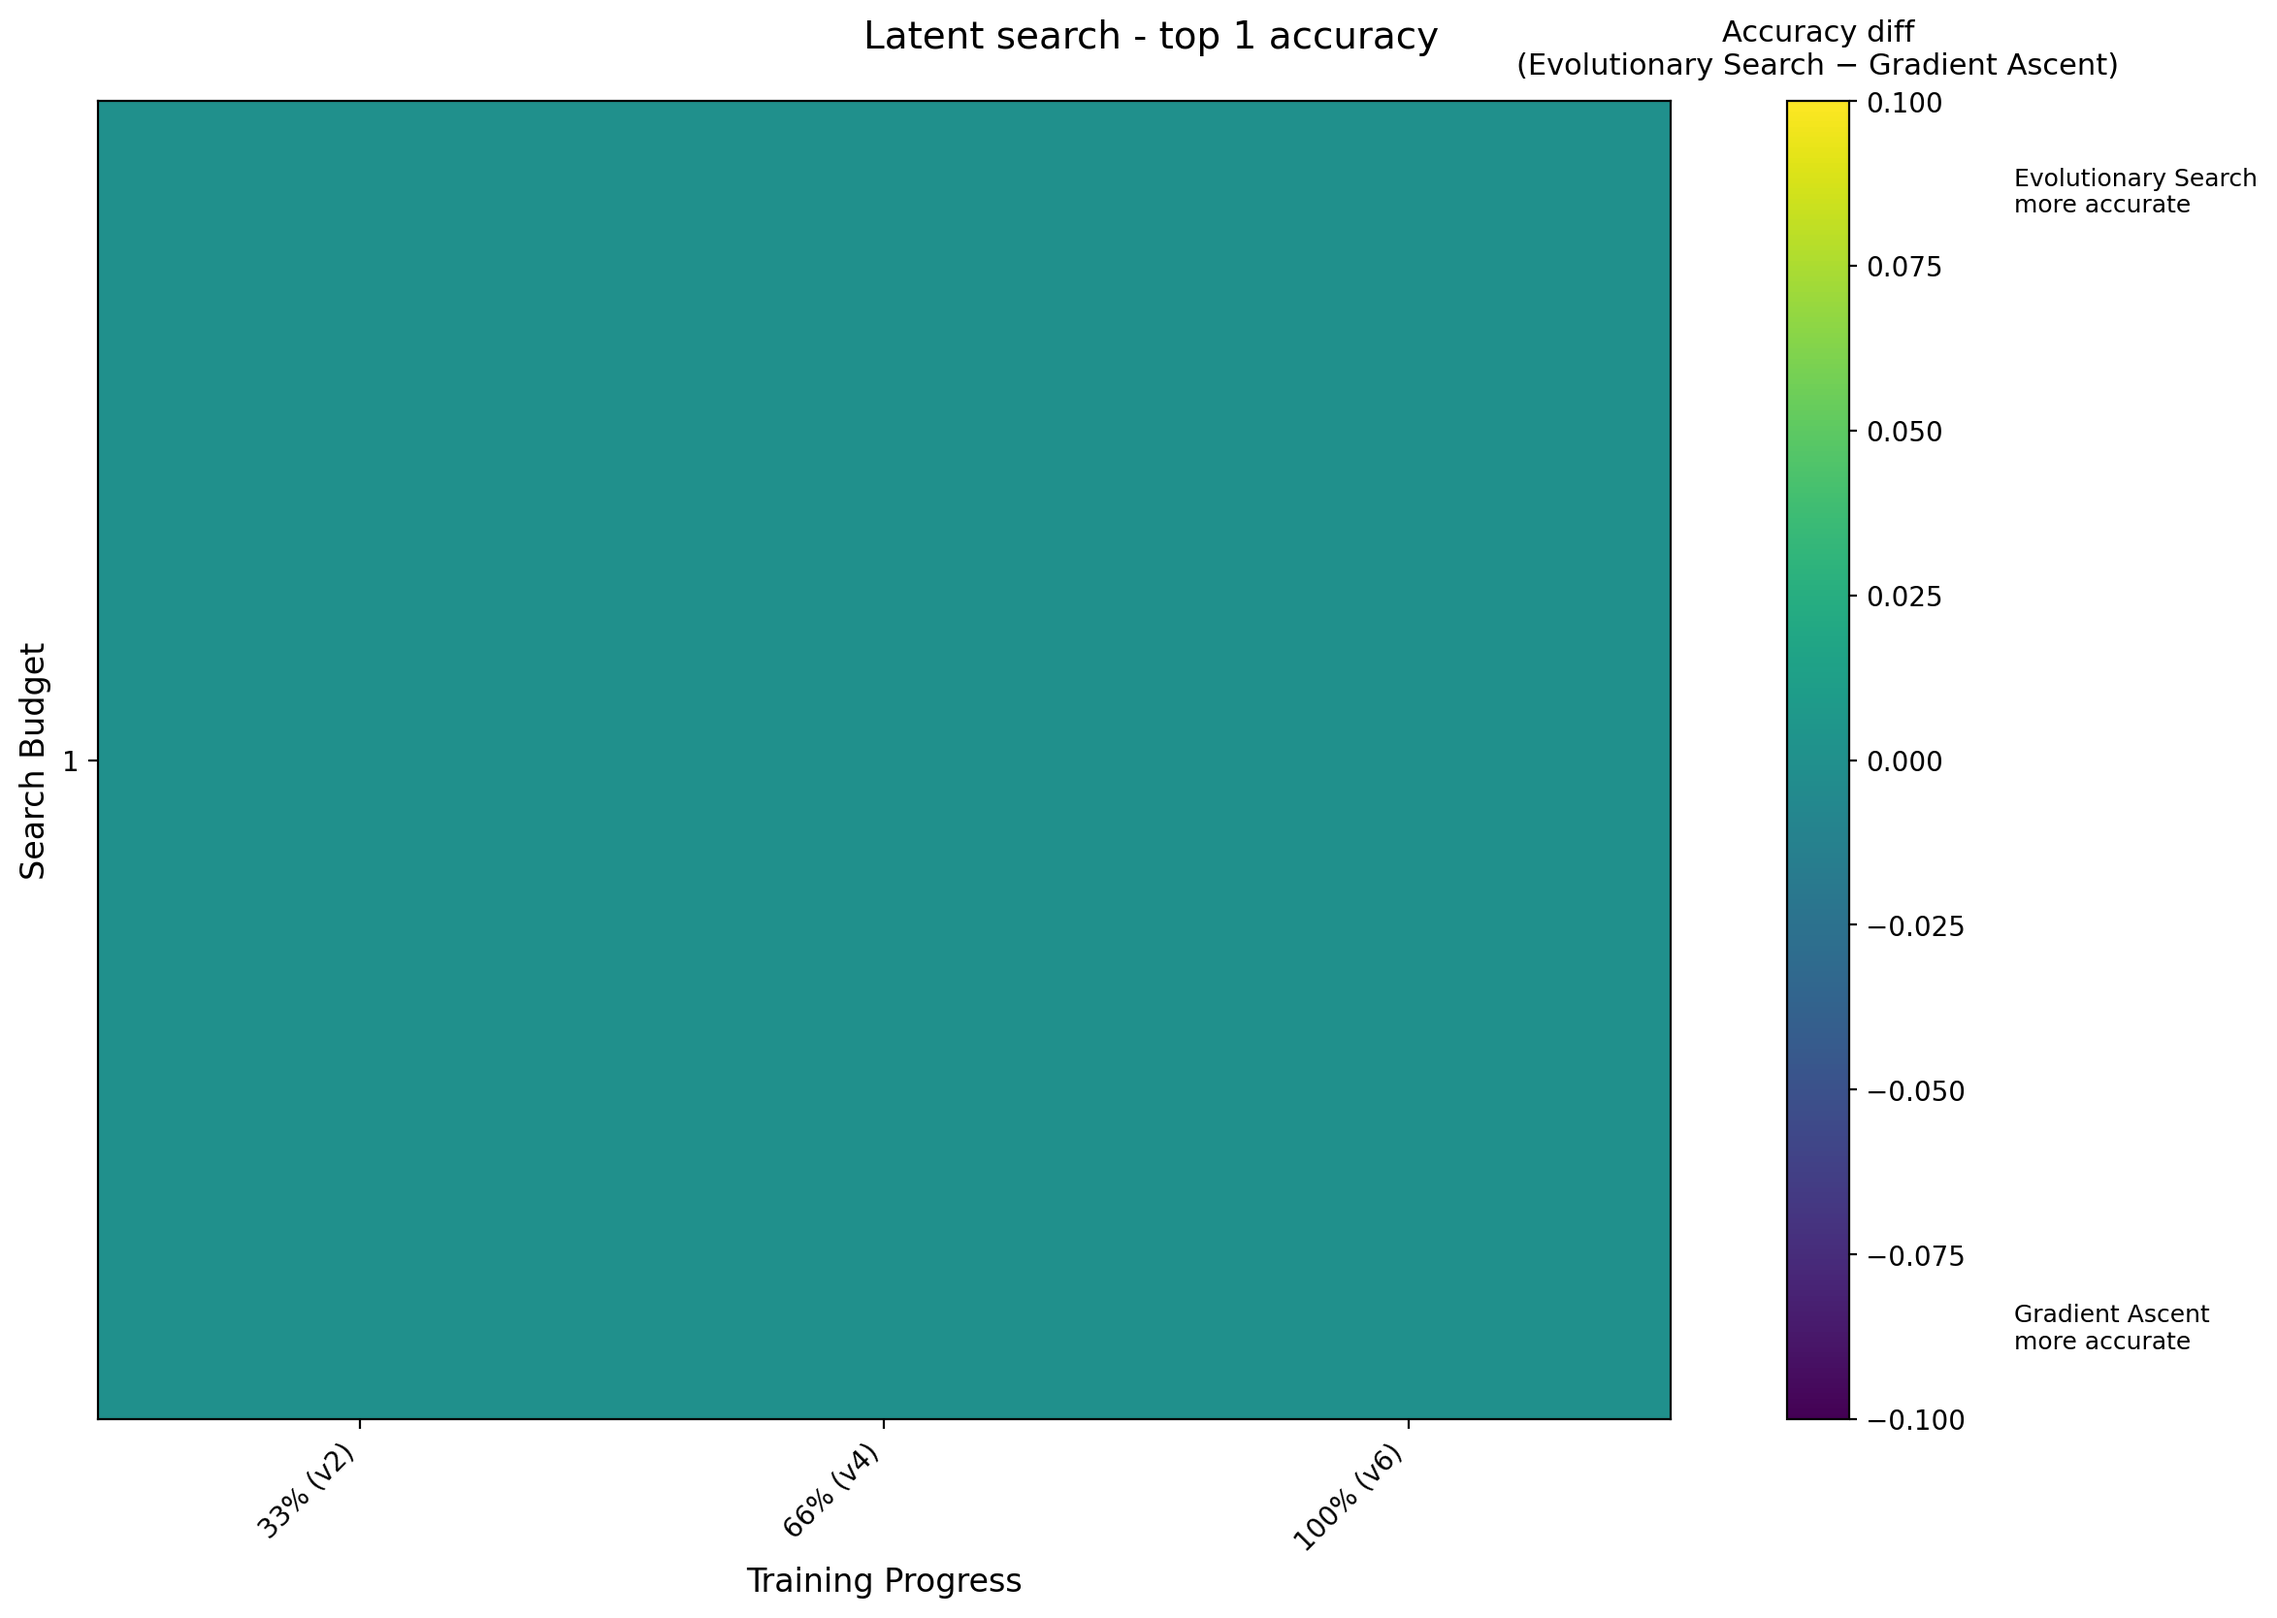
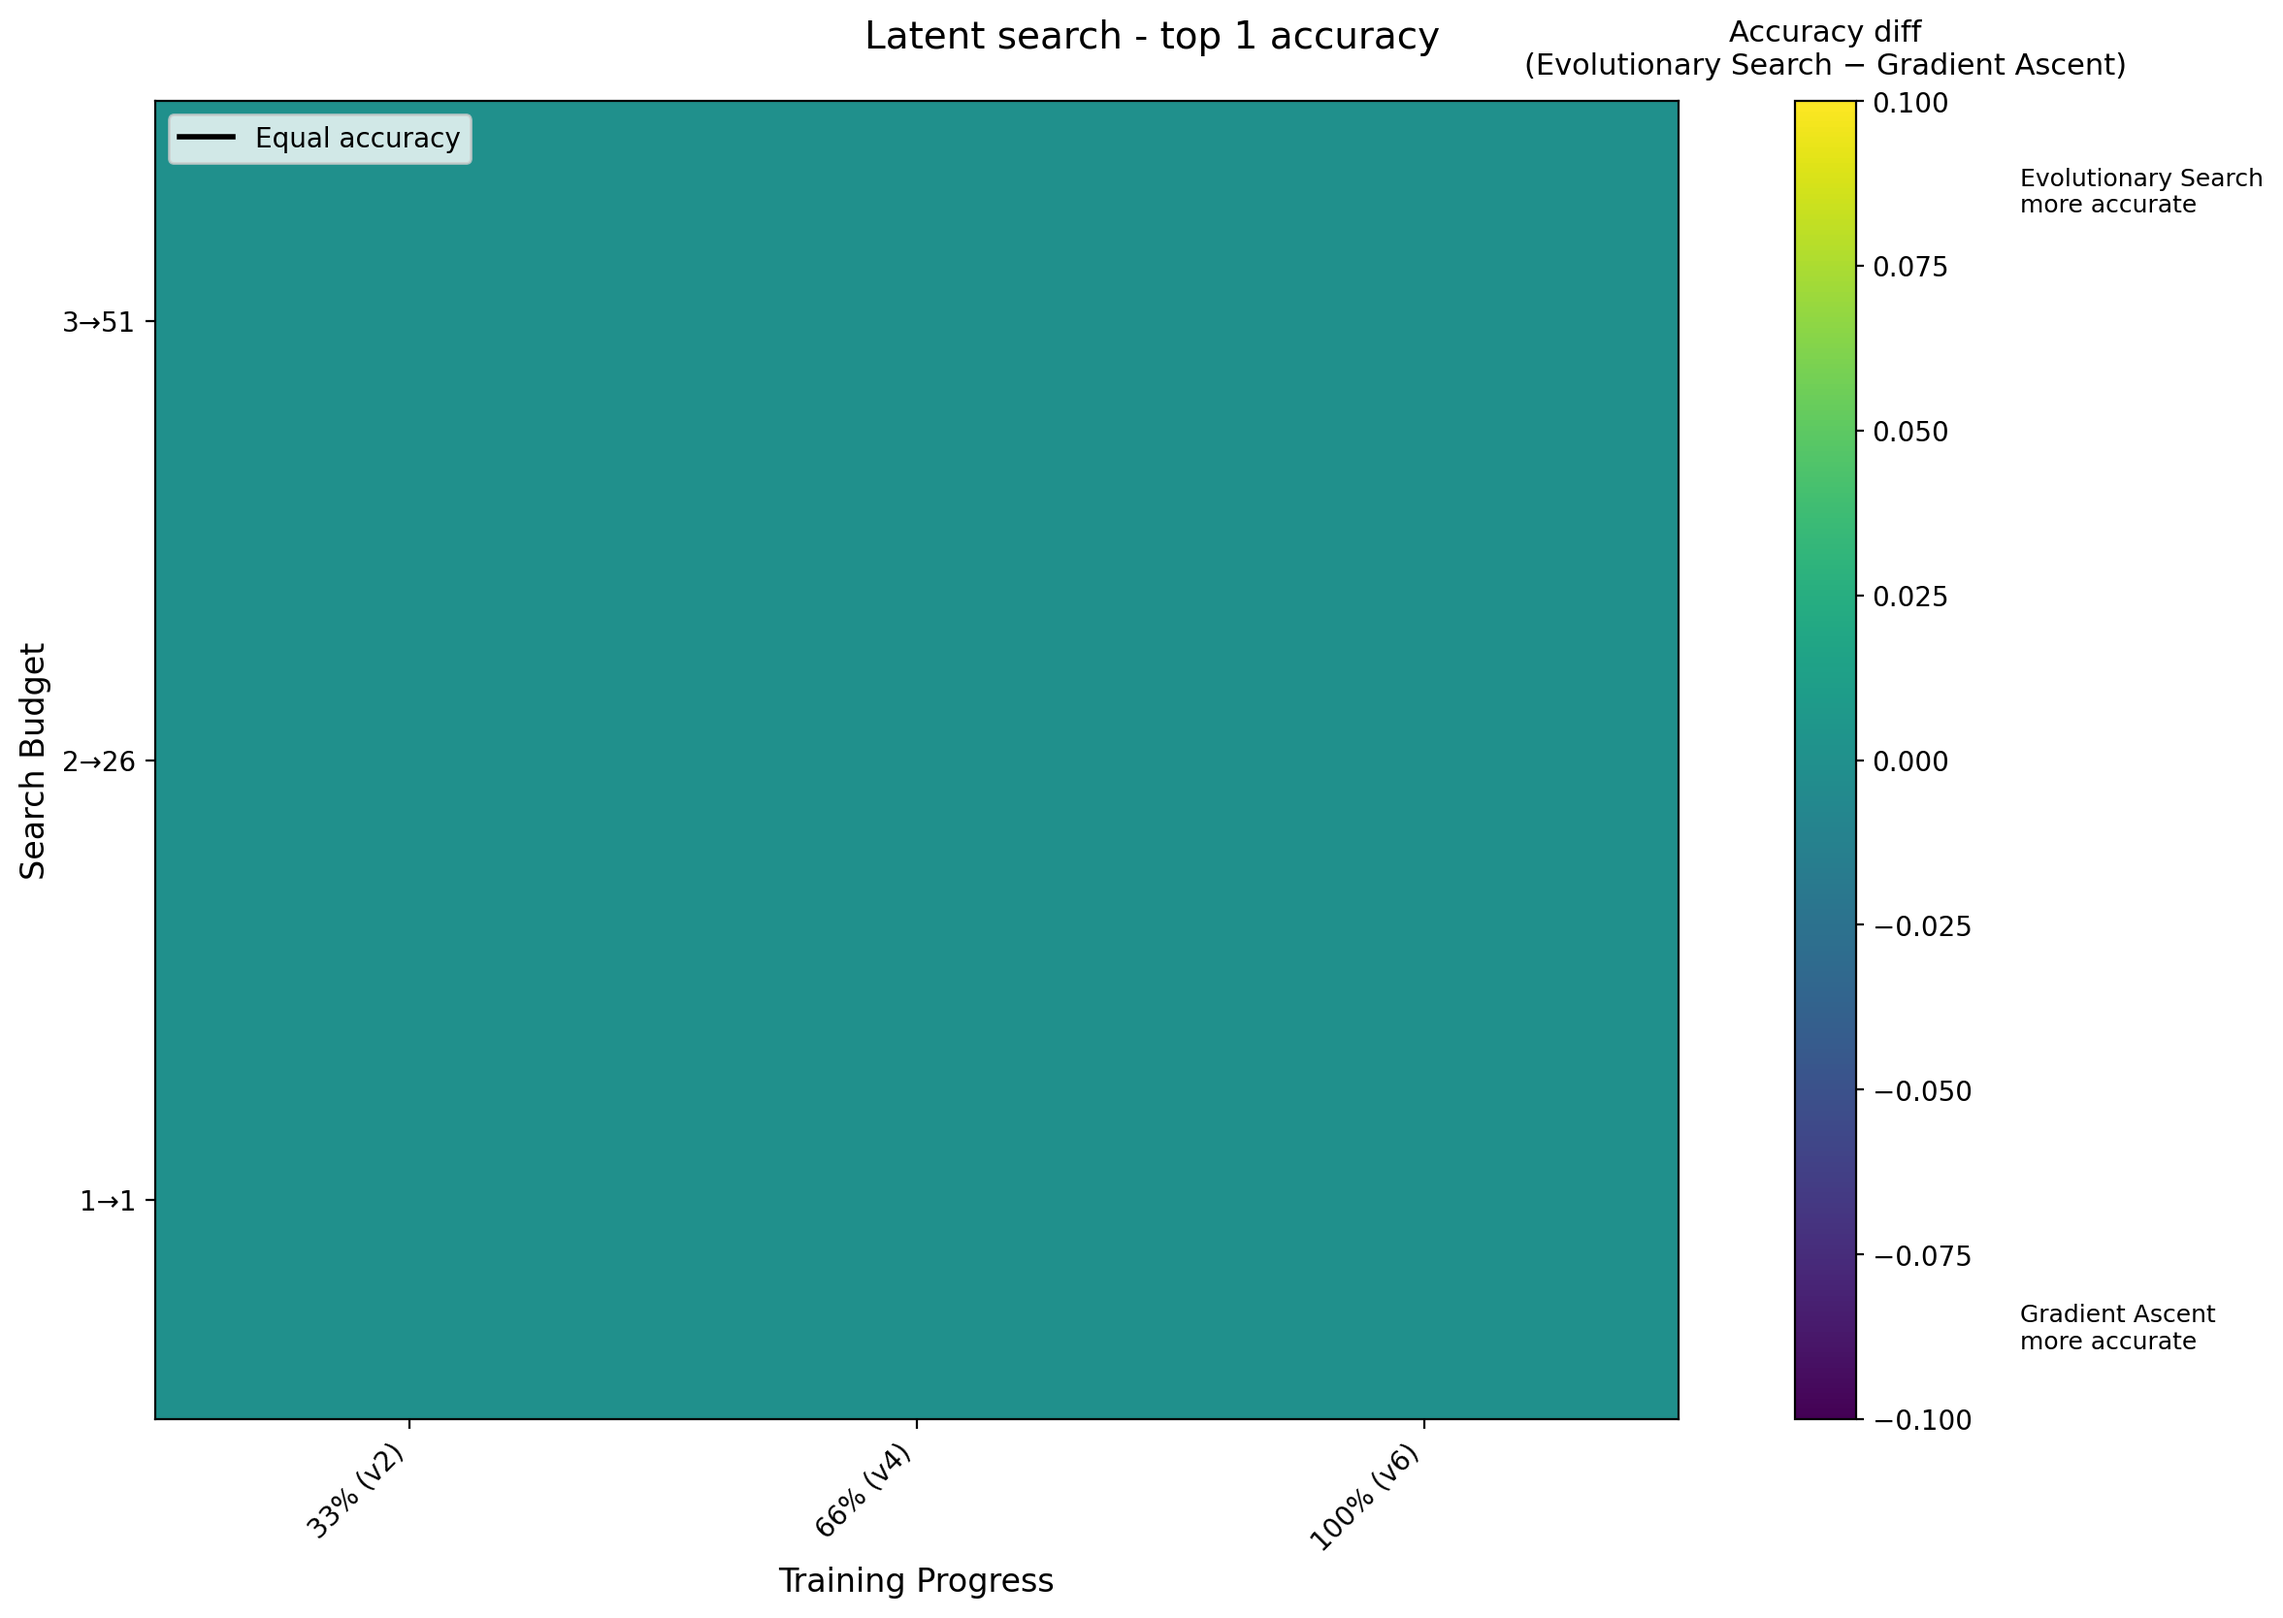
Update evaluation and plotting functions to enhance evolutionary search metrics. Modify evaluate_all_checkpoints.py to correctly reference evolutionary search configurations and improve logging. Refactor plot_from_csv.py to align budget labels for comparative metrics, ensuring clarity in data repres

diff --git a/src/plot_from_csv.py b/src/plot_from_csv.py
@@ -219,27 +219,47 @@ def load_csv_data(csv_path: str) -> Tuple[Dict, List[int], List[int], List[str]]
 
 
 def create_plot_matrices_for_metric(data_by_metric: Dict, steps: List[int], budgets: List[int], 
-                                   metric: str, method_a: str, method_b: Optional[str]) -> Tuple[np.ndarray, Optional[np.ndarray]]:
-    # If two methods, use intersection of budgets they both have to avoid NaN-only rows
+                                   metric: str, method_a: str, method_b: Optional[str]) -> Tuple[np.ndarray, Optional[np.ndarray], List]:
+    """
+    Build matrices for plotting. If two methods are provided, align budgets by rank:
+    i-th smallest budget of method_a pairs with i-th smallest budget of method_b.
+    Returns (acc_A, acc_B, budgets_labels) where budgets_labels are display labels per row.
+    """
     data_A = data_by_metric.get(metric, {}).get(method_a, {})
     data_B = data_by_metric.get(metric, {}).get(method_b, {}) if method_b is not None else {}
-    if method_b is not None:
-        budgets_a = set(b for step_map in data_A.values() for b in step_map.keys())
-        budgets_b = set(b for step_map in data_B.values() for b in step_map.keys())
-        intersect = sorted(list(budgets_a & budgets_b))
-        use_budgets = intersect if intersect else budgets
-    else:
-        use_budgets = budgets
 
-    acc_A = np.full((len(use_budgets), len(steps)), np.nan)
-    acc_B = np.full((len(use_budgets), len(steps)), np.nan) if method_b is not None else None
-    for j, step in enumerate(steps):
-        for i, budget in enumerate(use_budgets):
-            acc_A[i, j] = data_A.get(step, {}).get(budget, np.nan)
-            if method_b is not None and acc_B is not None:
-                acc_B[i, j] = data_B.get(step, {}).get(budget, np.nan)
-    # Overwrite budgets with the ones actually used
-    return acc_A, acc_B
+    # Collect sorted unique budgets per method
+    budgets_a_sorted = sorted({b for step_map in data_A.values() for b in step_map.keys()})
+    budgets_b_sorted = sorted({b for step_map in data_B.values() for b in step_map.keys()}) if method_b is not None else []
+
+    if method_b is not None and budgets_b_sorted:
+        pair_count = min(len(budgets_a_sorted), len(budgets_b_sorted))
+        if pair_count == 0:
+            # Fallback to single-method plot
+            acc_A = np.full((len(budgets_a_sorted), len(steps)), np.nan)
+            for j, step in enumerate(steps):
+                for i, b in enumerate(budgets_a_sorted):
+                    acc_A[i, j] = data_A.get(step, {}).get(b, np.nan)
+            return acc_A, None, budgets_a_sorted
+
+        used_a = budgets_a_sorted[:pair_count]
+        used_b = budgets_b_sorted[:pair_count]
+        budgets_labels = [f"{a}\u2192{b}" for a, b in zip(used_a, used_b)]  # e.g., "1→26"
+
+        acc_A = np.full((pair_count, len(steps)), np.nan)
+        acc_B = np.full((pair_count, len(steps)), np.nan)
+        for j, step in enumerate(steps):
+            for i in range(pair_count):
+                acc_A[i, j] = data_A.get(step, {}).get(used_a[i], np.nan)
+                acc_B[i, j] = data_B.get(step, {}).get(used_b[i], np.nan)
+        return acc_A, acc_B, budgets_labels
+    else:
+        # Single-method case
+        acc_A = np.full((len(budgets_a_sorted), len(steps)), np.nan)
+        for j, step in enumerate(steps):
+            for i, b in enumerate(budgets_a_sorted):
+                acc_A[i, j] = data_A.get(step, {}).get(b, np.nan)
+        return acc_A, None, budgets_a_sorted
 
 
 def create_readable_step_labels(steps: List[int], max_overall_step: Optional[int] = None) -> List[str]:
@@ -327,16 +347,15 @@ def plot_optimization_comparison(csv_path: str, output_dir: str = "plots",
     for metric in metric_names:
         print(f"\n🎨 Generating optimization comparison plot for metric: {metric}...")
         if method_b is not None:
-            acc_A, acc_B = create_plot_matrices_for_metric(data_by_metric, steps, budgets, metric, method_a, method_b)
-            # Recompute budgets to intersection for labels if necessary
-            if acc_B is not None:
-                # Determine budgets used from non-NaN rows
-                rows_with_data = np.where(~np.all(np.isnan(acc_A), axis=1) | ~np.all(np.isnan(acc_B), axis=1))[0]
-                if len(rows_with_data) > 0 and len(rows_with_data) != len(budgets):
-                    budgets = [budgets[i] for i in rows_with_data]
+            acc_A, acc_B, budgets_aligned = create_plot_matrices_for_metric(
+                data_by_metric, steps, budgets, metric, method_a, method_b
+            )
+            budgets = budgets_aligned
         else:
-            acc_A, _ = create_plot_matrices_for_metric(data_by_metric, steps, budgets, metric, method_a, None)
-            acc_B = None
+            acc_A, acc_B, budgets_aligned = create_plot_matrices_for_metric(
+                data_by_metric, steps, budgets, metric, method_a, None
+            )
+            budgets = budgets_aligned
 
         print(f"🔍 Data coverage for {metric}:")
         print(f"   {method_a}: {np.sum(~np.isnan(acc_A))} data points")

diff --git a/src/evaluate_all_checkpoints.py b/src/evaluate_all_checkpoints.py
@@ -765,7 +765,7 @@ def main():
             selected_counts = []
             if "gradient_ascent" in args.plot_methods: selected_counts.append(len(ga_steps))
             if "random_search" in args.plot_methods: selected_counts.append(len(rs_samples))
-            if "evolutionary_search" in args.plot_methods: selected_counts.append(len(es_generations))
+            if "evolutionary_search" in args.plot_methods: selected_counts.append(len(es_configs))
             total_expected = sum(selected_counts)
             print(f"\n📊 Checkpoint {i}/{len(checkpoints)} complete. Total evaluations: {total_evals}/{total_expected * i}")
             print(f"   ⏱  Timing info available in W&B logs for each method and budget")
